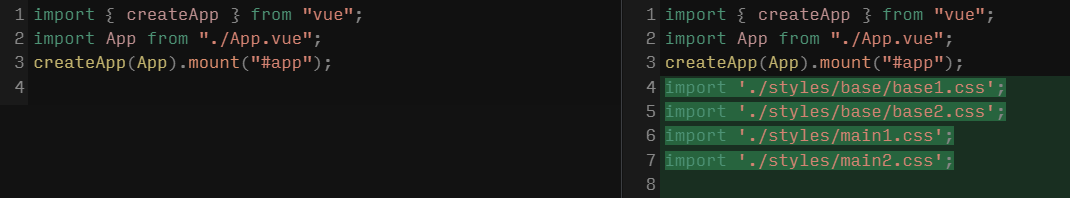
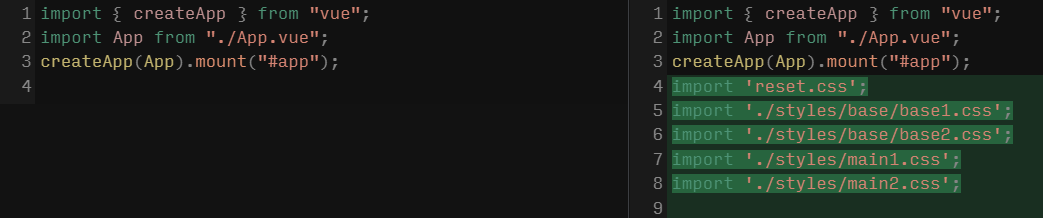
feat: add new option

diff --git a/src/core/unplugin.ts b/src/core/unplugin.ts
@@ -8,12 +8,11 @@ import { normalizePath, forEachStyles, formatStylesFiles } from './format'
 function initInclude(inputName: string):any[] {
   const reg1 = new RegExp(`src\/${inputName}\.ts$`)
   const reg2 = new RegExp(`src\/${inputName}\.js$`)
-  console.log([reg1, reg2])
   return [reg1, reg2]
 }
 
 export default createUnplugin((options?: Options): any => {
-  const { relativeStylesPath, inputName } = normailzeOptions(options)
+  const { relativeStylesPath, inputName, include } = normailzeOptions(options)
   const FILTER_INCLUDE = initInclude(inputName)
   const FILTER_EXCLUDE = [/[\\/]node_modules[\\/]/]
   const filter = createFilter(
@@ -38,7 +37,7 @@ export default createUnplugin((options?: Options): any => {
       return result
     },
     transform(code) {
-      const importList = createImport(stylesFile)
+      const importList = createImport(stylesFile, include)
       return code + importList
     },
   }
@@ -46,8 +45,13 @@ export default createUnplugin((options?: Options): any => {
 
 
 
-export function createImport(arr: string[]) {
+export function createImport(arr: string[], include: string[]) {
   let importList = ''
+  if (include.length !== 0) {
+    include.forEach((item) => {
+      importList += `import '${item}';\n`
+    })
+  }
   arr.forEach((item) => {
     importList += `import '${item}';\n`
   })

diff --git a/src/core/options.ts b/src/core/options.ts
@@ -3,9 +3,10 @@ import type { Options } from '../types'
 export function normailzeOptions(options: Options | undefined) {
   const relativeStylesPath = options?.globStylesPath ?? './styles'
   const inputName = options?.inputName ?? 'main'
-
+  const include = options?.include ?? []
   return {
     relativeStylesPath,
-    inputName
+    inputName,
+    include
   }
 }

diff --git a/examples/vite-vue3/vite.config.ts b/examples/vite-vue3/vite.config.ts
@@ -8,7 +8,8 @@ export default defineConfig({
   plugins: [
     vue(),
     autocss({
-      inputName: 'index'
+      inputName: 'index',
+      include: ["reset.css"]
     }),
     inspect()],
 })

diff --git a/src/types.ts b/src/types.ts
@@ -1,4 +1,5 @@
 export interface Options {
   globStylesPath?: string
   inputName?: string
+  include?: string[]
 }

diff --git a/README.md b/README.md
@@ -124,6 +124,7 @@ Auto import all css files from `./src/styles`  into `main.(t/j)s`, as global css
 interface Options {
     globStylesPath?: string /* The path of the css folder relative to src, default: './styles' */
     inputName?: string /* input name, default: 'main' */
+    inlcude?: string[] /* include auto import node_modules css such as: reset.css */
 }
 ```
 
